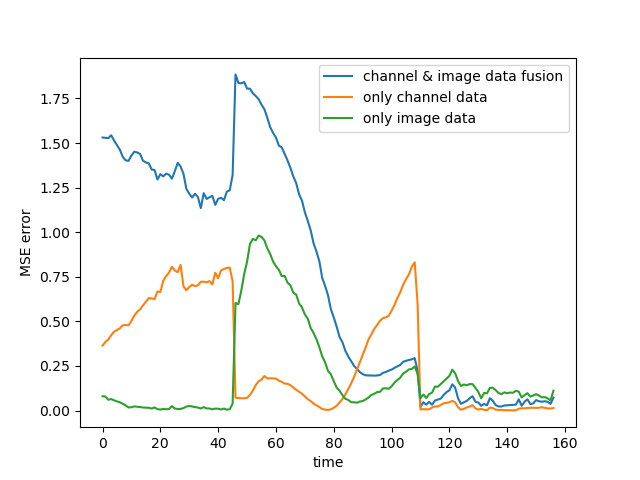
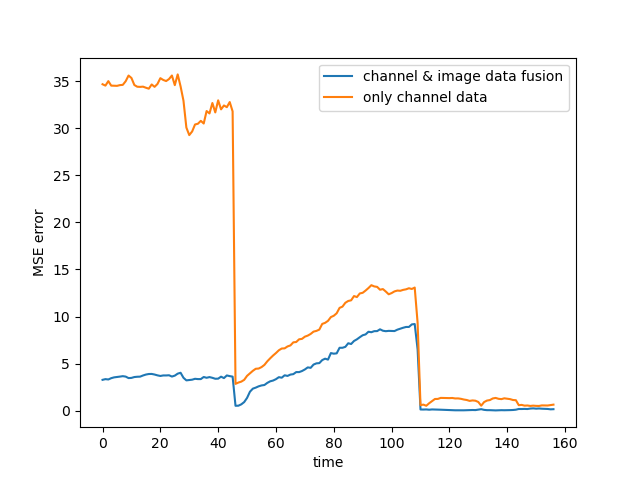
Use another weights
they look all terrible though
strong in different fields

diff --git a/user_tracking.py b/user_tracking.py
@@ -129,8 +129,10 @@ def eval_model(model:UserTrackingModel, dataloader:DataLoader,
 def plot_performances(model:UserTrackingModel, dataloader:DataLoader, 
                       weight_paths:list, labels:list, _save_ids=[]):
     """
+    Evaluate Model and save its performance
+
     param:
-    - `weight_paths`
+    - `weight_paths`: containing model paths to load and evaluate
     """
     # n_batch = len(dataloader)
     # my_xticks = [f"{i * batch_size}-{(i + 1) * batch_size - 1}" for i in range(0, n_batch)]
@@ -219,16 +221,15 @@ def main():
     ds = UserTrackingDataset()
     dataloader = DataLoader(ds, batch_size=bsize, shuffle=False)
     model = UserTrackingModel()
-    model.load_state_dict(torch.load("model/images.pt", weights_only=True))
 
-    train_model(model, dataloader, n_epoch=100)
+    # train_model(model, dataloader, n_epoch=100)
 
     # compare performances
-    weight_paths = ["model/wireless_images.pt"]#, "model/wireless.pt", "model/images.pt"]
+    weight_paths = ["model/8.36.pt", "model/9.7.pt"]
     labels = ["channel & image data fusion", "only channel data", "only image data"]
-    _save_ids = ["chnl_img", "chnl", "img"]
+    _save_ids = ["8_36", "9_7", "xx"]
 
-    # plot_performances(model, dataloader, weight_paths, labels, _save_ids)
+    plot_performances(model, dataloader, weight_paths, labels, _save_ids)
 
     # coords = []
     # coord1 = np.load(f"data/chnl_img_Estcoord.npy")
